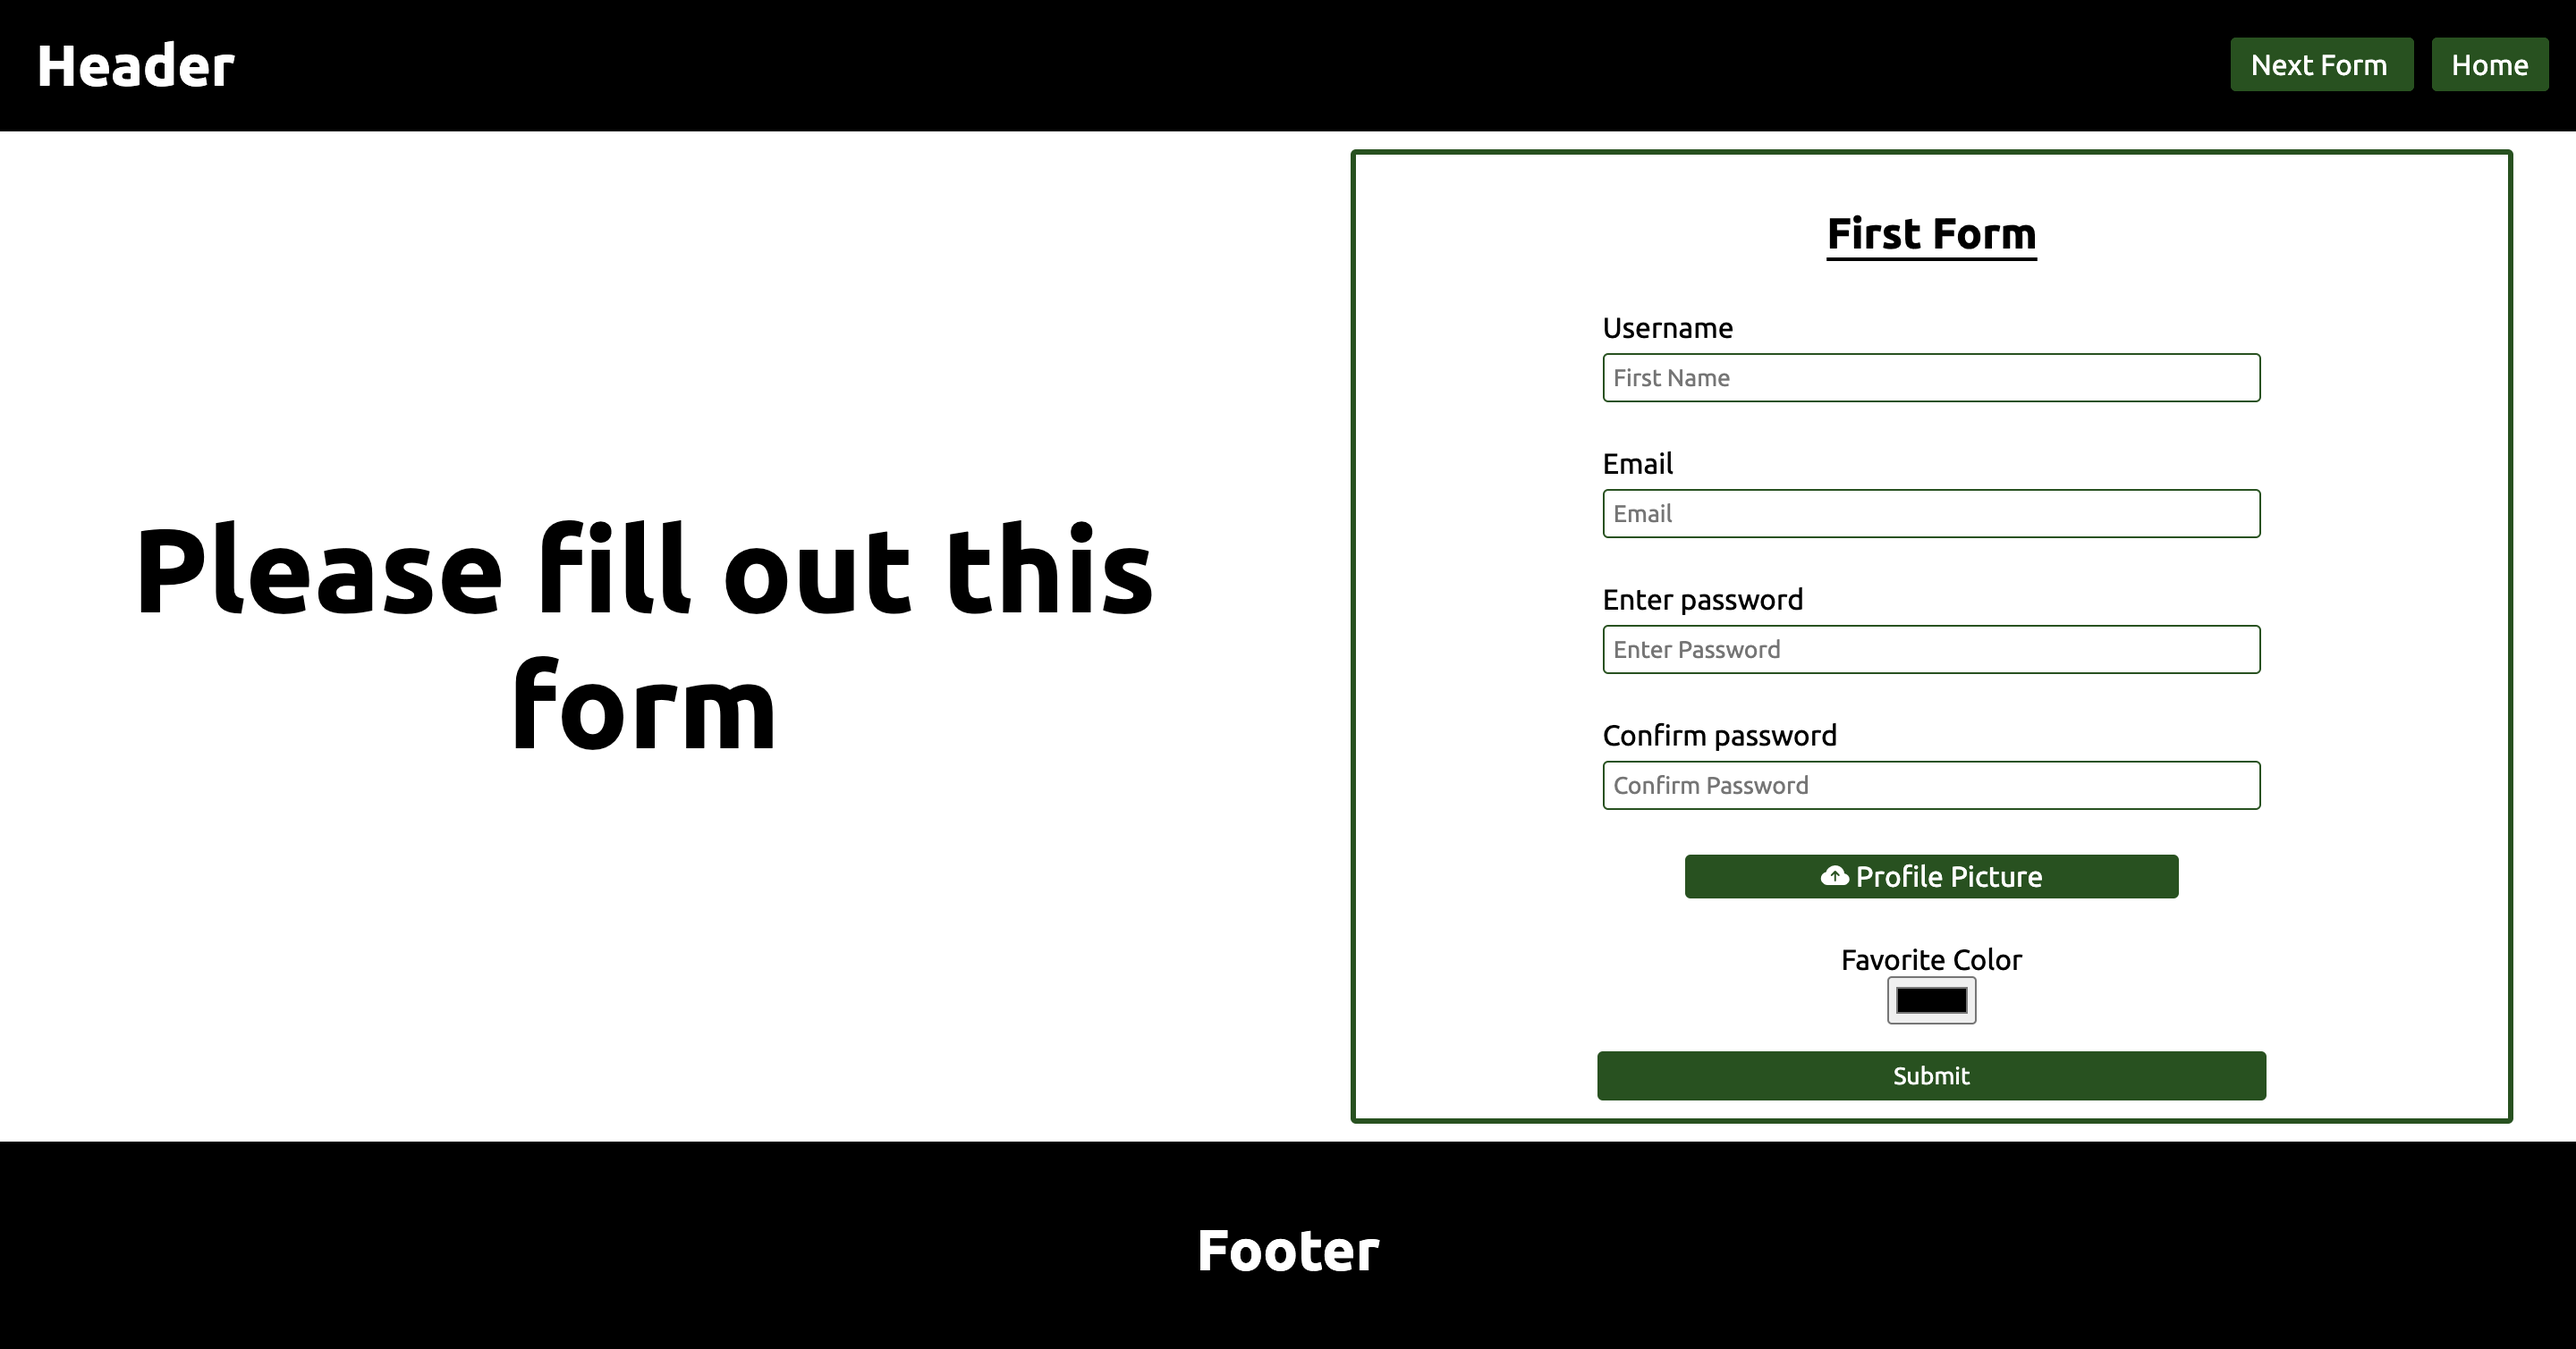
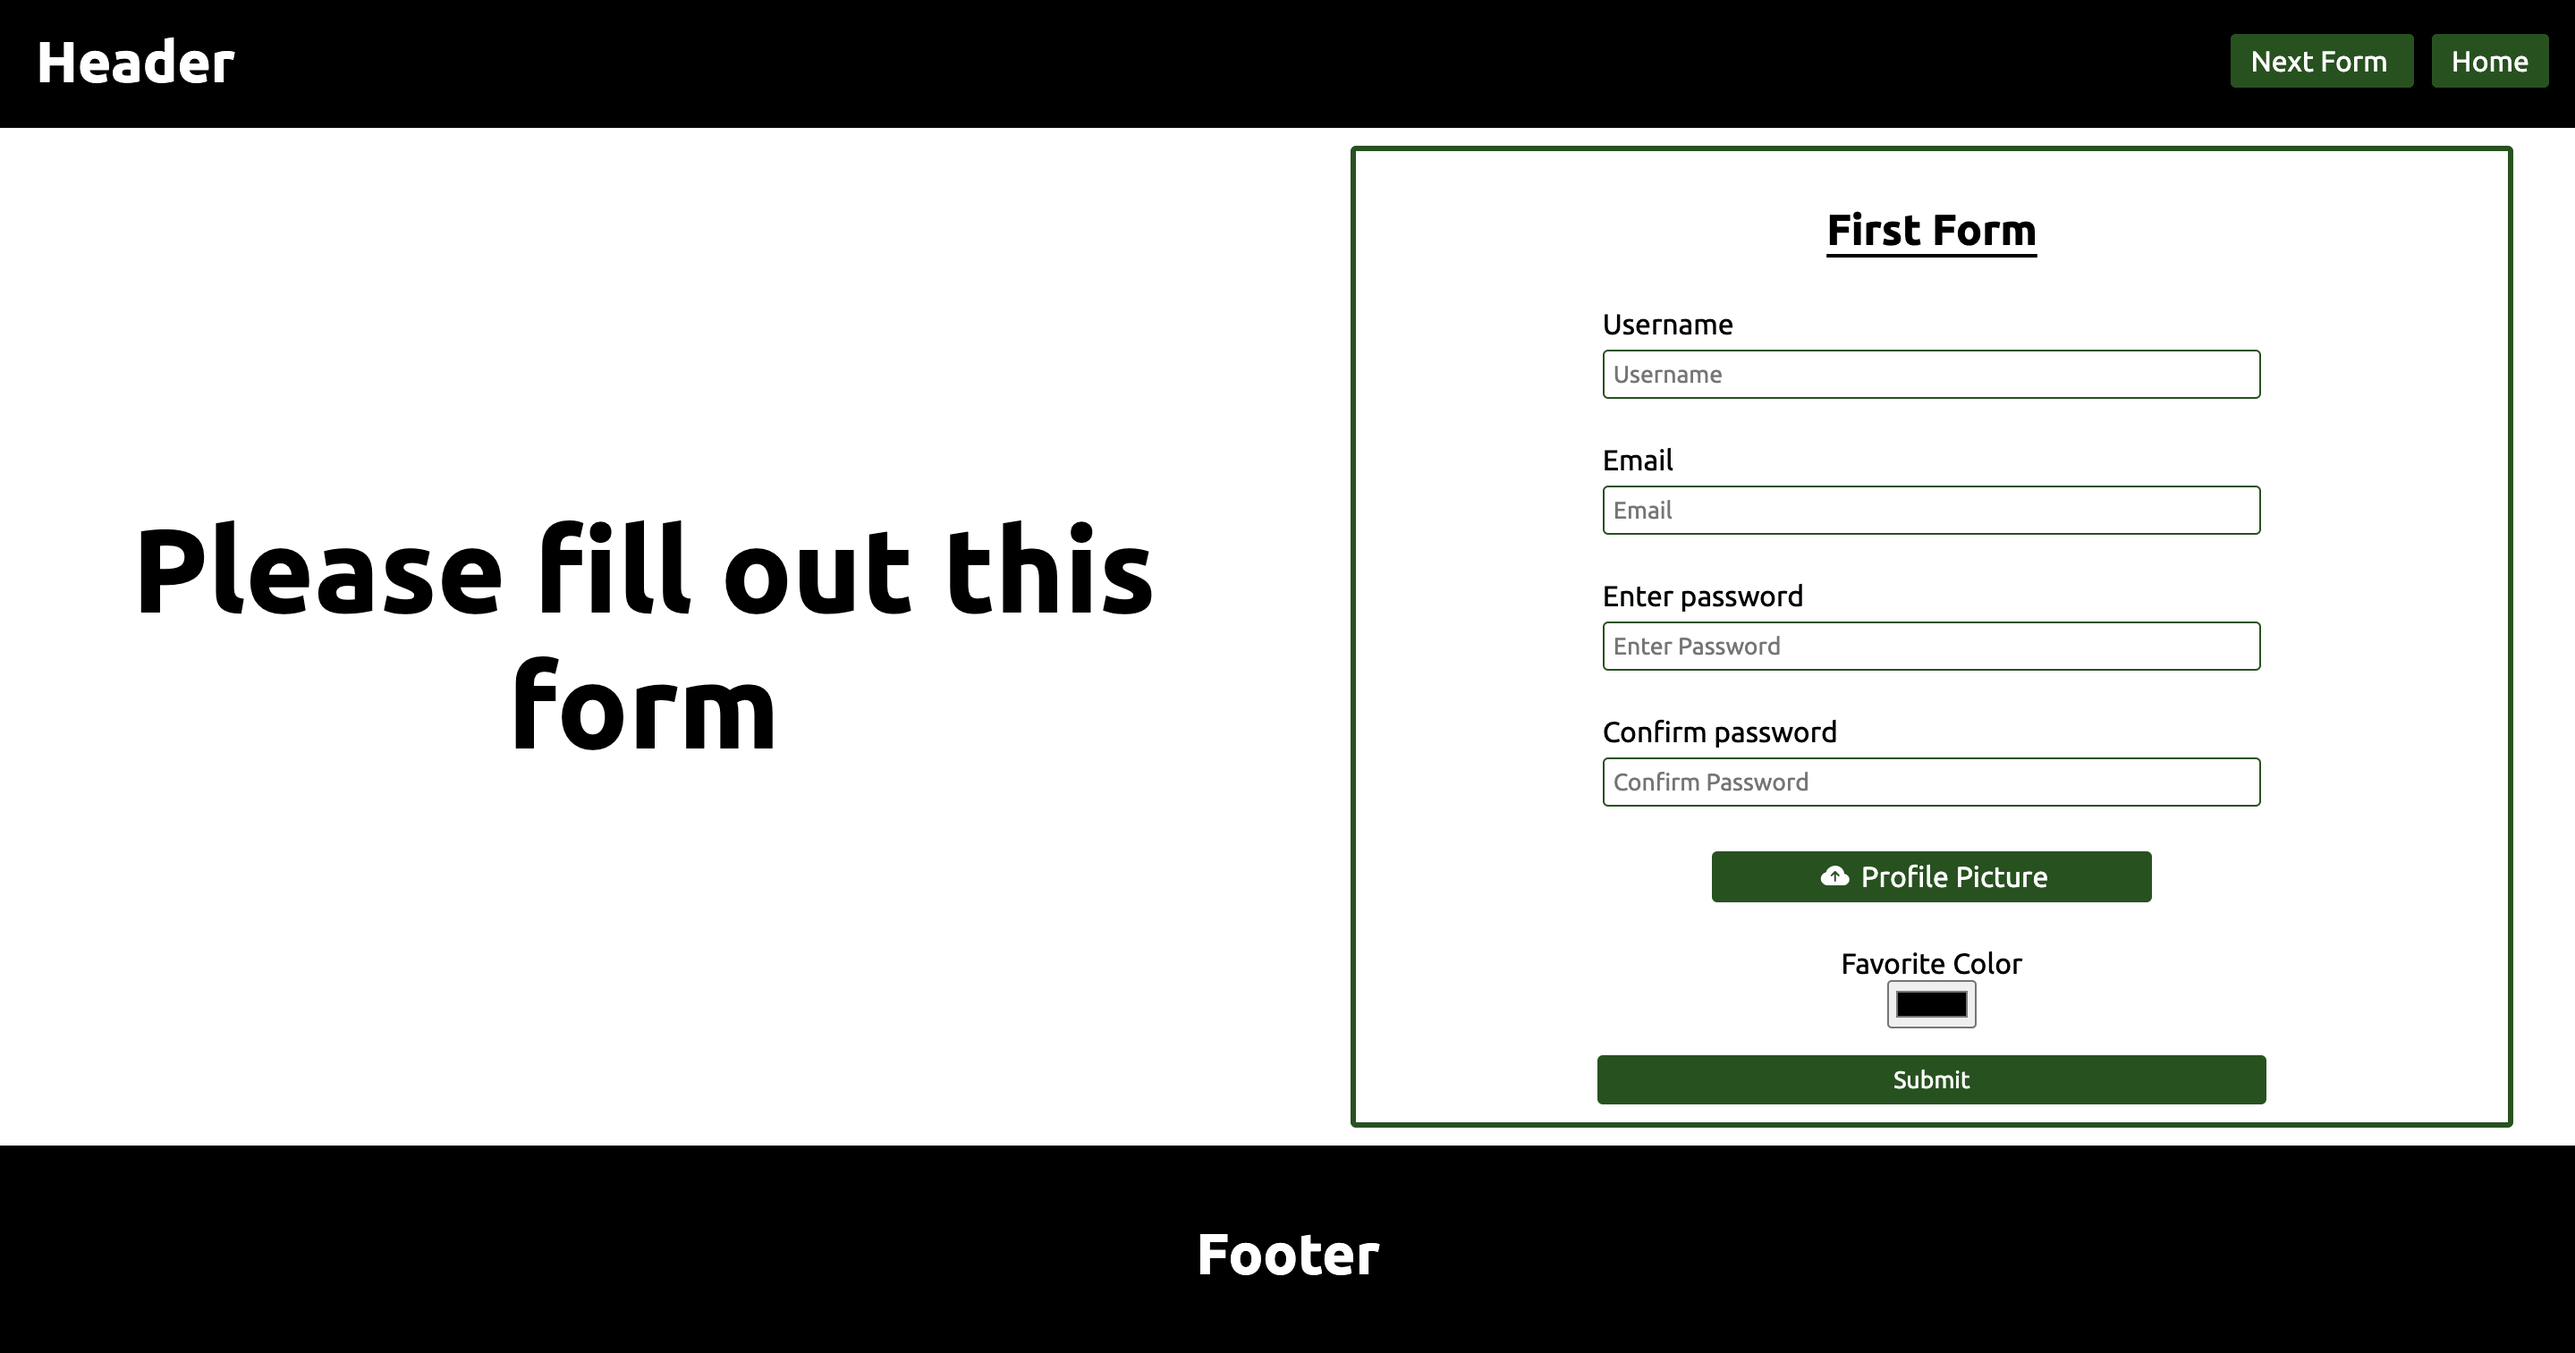
updated screenshots/modified placeholder value

diff --git a/practice/html-pages/first-form.html b/practice/html-pages/first-form.html
@@ -69,7 +69,7 @@
                 <h1 class="form-title">First Form</h1>
                 <div class="input-container">
                     <label for="username" class="input-label">Username</label>
-                    <input class="input-field" type="text" name="username" placeholder="First Name">
+                    <input class="input-field" type="text" name="username" placeholder="Username">
                 </div>
                 <div class="input-container">
                     <label for="email" class="input-label">Email</label>
